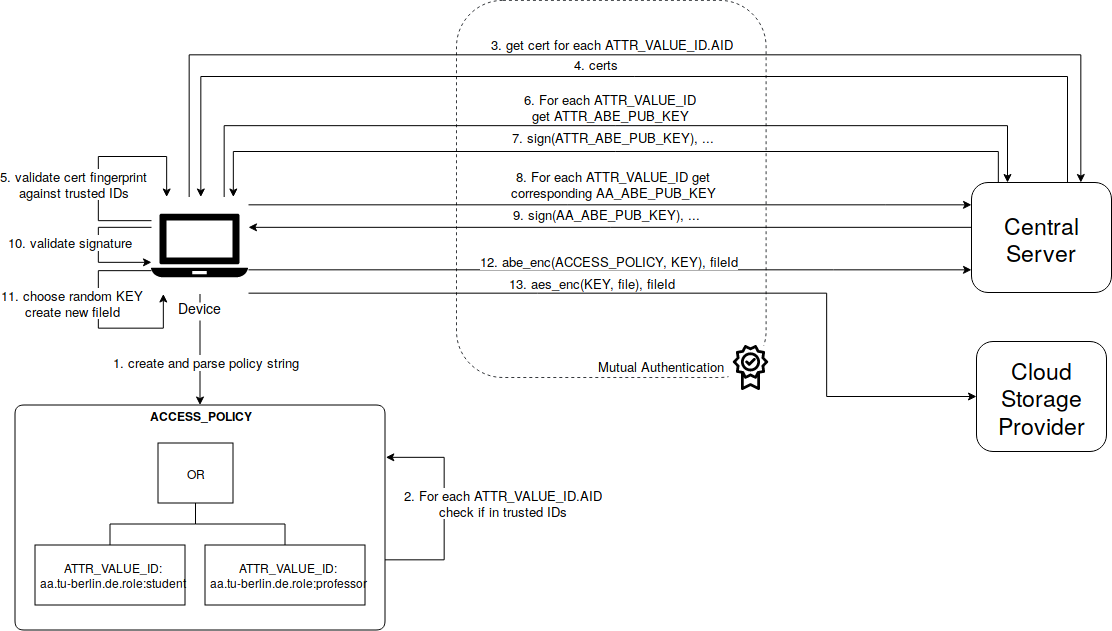
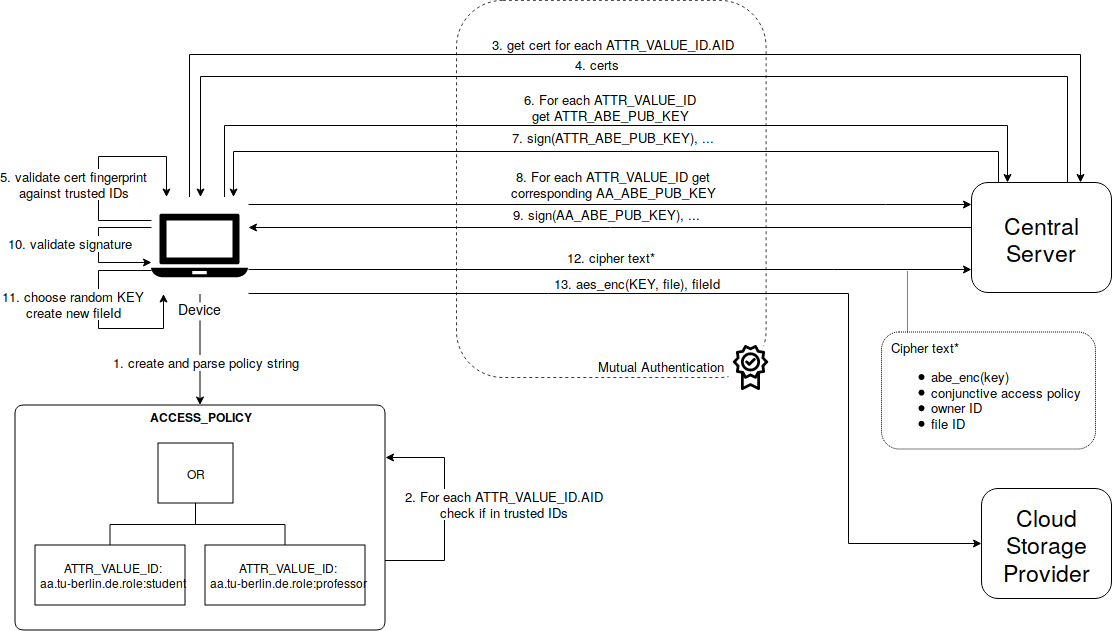
added 2FA workflow into thesis

diff --git a/thesis/content/05-implementation.tex b/thesis/content/05-implementation.tex
@@ -125,6 +125,8 @@ The CA is also the central service that provides all necessary information to th
   \item \textbf{Data owner} are specifications of users who can issue two-factor keys to other users. The so called \textit{Two-Factor Key} (\ac{2FA}-Key), adds an additional security layer to the cipher text. It restricts the access to the encrypted plain text to a even smaller select user group.  
 \end{itemize}
 
+\todo{Adaptations in system design: CA is certificate authority as well, CSP only saves encrypted keys but not cipher texts. User can not talk directly with each other.}
+
 \subsection{Setup}
 The setup summarizes the steps described in \cite{li2017two} such as: Setup, user registration, data owner registration, authority setup, key generation and authentication requests. 
 
@@ -155,6 +157,7 @@ The AA-Admin uploads the received certificate and the private key to the AA serv
 Figure \ref{fig:user-register} shows the user registration flow. Users are registered by the AA-Admin. He chooses a user identifier (UID) and attributes for the new user (1.).  The AA now checks if all attribute values are already known or if a new attribute value key pair needs to be created (2.). If new attribute values would have been created their public component would also be signed and published to the central server. The user specific attribute secret keys needs to be created (3.). They have the hash of the UID embedded so that on colluding with other users this hash would mesh and no successful decryption would be possible. Finally, the central server is notified for this new user. It just saves the user object for future reference.
 
 \subsubsection{Register a device}
+\label{sec:register-a-device}
 \begin{figure}[!h]
 \centering
     \includegraphics[width=\linewidth]{img/device_register.png}
@@ -204,33 +207,38 @@ In step 2. it is validated that the given attribute values and their authorities
 
 Step 6-9 retrieve the public attribute and authority keys needed for encryption under the given policy. For each request a signed ABE public keys are returned. In step 10. thous signatures are validated given the certificates of step 4. and the trusted authority subset validation of step 5. 
 
-Since all preconditions are fulfilled and all public keys are trusted, the device can proceed to encrypt the content under the given access policy (11.).  To do that, the device first chooses a random key  $K \in G_T$ that is encrypted using the adapted encryption technique of section \ref{sec:removing-the-fix-two-factor-constrain} to create a \textit{file key}. The random element key $K$ is converted into a unique byte array stream and used for symmetric \ac{AES} encryption of the plain text content. To relate file key and cipher text a new random file ID is chosen and attached to both payloads. In step 12. the file keys is updated to the central server to that it can be queried by other clients and the encrypted file is updated to the cloud storage provider (13.). 
+Since all preconditions are fulfilled and all public keys are trusted, the device can proceed to encrypt the content under the given access policy (11.).  To do that, the device first chooses a random key  $K \in G_T$ that is encrypted using the adapted encryption technique of section \ref{sec:removing-the-fix-two-factor-constrain} to create a \textit{file key}. The random element key $K$ is converted into a unique byte array stream and used for symmetric \ac{AES} encryption of the plain text content. To relate file key and cipher text a new random file ID is chosen and attached to both payloads. In step 12. the cipher text is uploaded to the central server to that it can be queried by other clients. A cipher text, as described by TF-DAC-MACS \cite{li2017two}, is composed of an encrypted part (in the paper it is called $C1$, $C2$ and $C3$), the data owner Id, which is only present if two-factor authentication is used (see section \ref{sec:encryption-utilizing-two-factor-keys}), an conjunctive access policy (set of attribute value IDs) and the file ID which references the actuall encrypted content. This last one is uploaded and stored permanentally on the cloud storage provider (13.).  
 
 As mentioned in section \ref{sec:extension-to-dnf-policy} an extension to DNF policy is introduced. To support also OR clauses, the client creates different versions of the file key, each encrypted under a different access policy. As can be seen in figure ref{fig:tfdacmacs-encrypt} the example access policy is composed of two attribute values combined with a disjunction. The client would produce one file key under the policy "(aa.tu-berlin.de.role:student)" and an other for the policy "(aa.tu-berlin.de.role:professor)". Each file keys need to be created using the same key element $K$ so that when decrypted respectively both of them result in the same key that can be used to decipher the encrypted file. As already mentioned, this comes with a performance trade-off in storage and computing power. Cipher text update and cipher text length scales now with a linear overhead for each disjunction, rather then constant as in the original scheme. 
 
-\subsubsection{Two-Factor Keys}
-\todo{write me}
+\subsubsection{Encryption Utilizing Two-Factor Keys}
+\label{sec:encryption-utilizing-two-factor-keys}
+\begin{figure}[!t]
+\centering
+    \includegraphics[width=1\linewidth]{img/encryption_2FA.png}
+    \caption{Encryption preperation using two-factor authentication}
+    \label{fig:tfdacmacs-encrypt-2fa}
+\end{figure}
 
-% \todo{todo}
-% In the final setup, users can issue each other two factor keys so called \textit{authentication keys}. This authentication keys introduce a new layer of security where users can decide who exactly can decipher their plain text. In some cases this may be needed since access policies in ABE describe always a group of user and the exact members of this group remains hidden from the data owner.
- 
-% An example flow to receive the 2FA-Key would look like this: If Bob wants to get an authentication key from Alice he sends an authentication request to the CA addressing Alice and containing his certificate. Alice gets notified about the request, checks the validity of the certificate and creates the authentication key for Bob. She  uses the public key embedded in Bobs certificate to encrypt the private authentication key and uploads it to the CA. Bob downloads the encrypted key and decrypts it. In the later manner, Bob can use this authentication key to authenticate against the cipher text created by Alice. 
+In order to also secure the cipher text utilizing two-factor keys, additional preparation need to be done.  As displayed in figure \ref{fig:tfdacmacs-encrypt-2fa}, first a new two-factor master key is created (1.). This one is kept secret on the device. It will be used later to issue more two-factor authentication keys to other users or revoke two-factor authentication keys. 
 
-% The previous steps are summarized in the figure \ref{fig:tfdacmacs-setup}.
+For each user that shall receive a two-factor key, the device creates a user specific two-factor authentication secret key (2.). To prevent collusion it is made unique for each user using the hash of the user id as a uniqueness source. Before uploading this keys to the central server, the device needs to encrypt them for each user respectively.  To do so, it is checked that each user that shall receive a two-factor authentication key has an authority that is an element in the trusted ID set. For each user this check returns success, the central service is asked for the certificates of each device of this user (3 and 4).
+
+Since the central server can not be trusted to return tampered certificates the device needs to request each administrating AA of each user to double check the retrieved certificates (5.). Here the AA validates that the presented certificate fingerprint is valid and the requested device is active. For each device this check returns success the respective user secret keys are encrypted using the public key embedded in the validated certificate (7.). Thous are uploaded to the central server where they can be downloaded by each respective recipient. 
+
 
 \subsection{Decryption}
-\todo{write me}
 
-% \begin{figure}[!t]
-% \centering
-%     \includegraphics[width=0.7\linewidth]{img/TF-DAC-MACS-overview-decrypt.png}
-%     \caption{Decryption phase}
-%     \label{fig:tfdacmacs-decryption}
-% \end{figure}
+\begin{figure}[!t]
+\centering
+    \includegraphics[width=1.0\linewidth]{img/decryption.png}
+    \caption{Decryption phase}
+    \label{fig:tfdacmacs-decryption}
+\end{figure}
 
-% On decryption first the ciphertext will be downloaded from the server. If Bob has a matching super set of attributes and the needed 2FA-Key he can recover the file key $m$ and transform it again to a bit-stream (figure \ref{fig:tfdacmacs-decryption})
+Compared to encryption, decryption is rather straight forward. As figure \ref{fig:tfdacmacs-decryption} shows, periodically the device checks if new satisfyable cipher texts are present at the central server. This is done by sending all attribute value IDs for that the devices owns a private ABE key in a query to the central server (1.). It on the other hand checks if any cipher text can be satisfied by a subset of this given attribute set. This can be done by selecting all cipher texts and checking their respective access policies if all elements of this policy are a true subset of the given attribute value IDs from the device. All cipher text that satisfy this constrains are returned (2.).
 
-% Next, he downloads the encrypted file from the CSP and decrypts it with the recovered file key.
+The device proceeds to extract the file ID from the given cipher text and request this encrypted file from the CSP (3. and 4.). \todo{make integrity checks? Maybe make the file Id to the hash of the file content}. Locally, the cipher text is now decrypted using the user specific ABE private keys issued on device register (see section \ref{sec:register-a-device}) (5.). After the file key is recovered it can be used for symmetric  AES decryption of the encrypted file (6.). 
 
 \subsection{Revoke attribute}
 \todo{write me}
